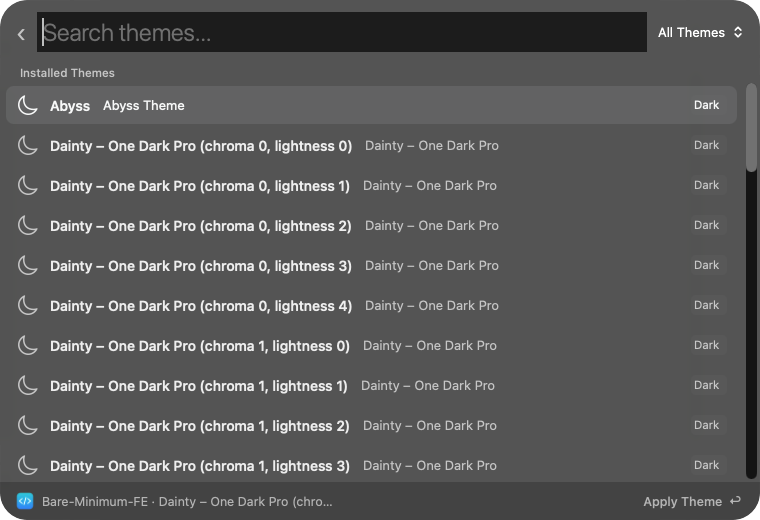
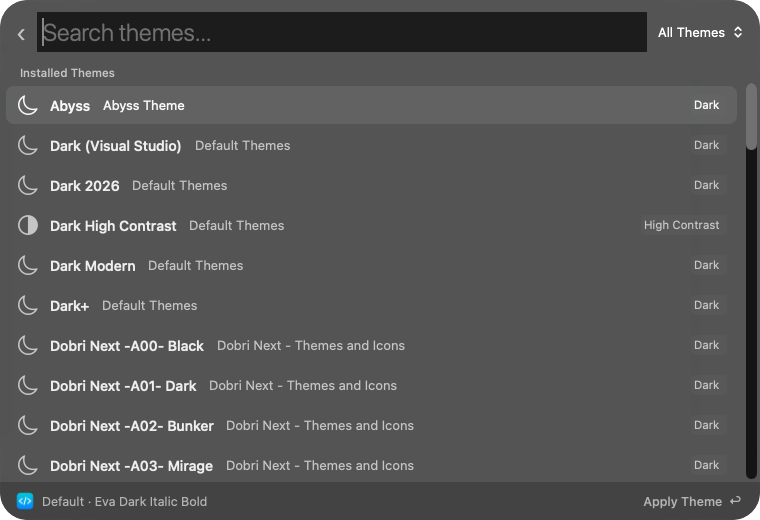
docs: re-shoot screenshots with demo data (adds ⌘K menu and ⌘Y preview)
- state_db hidden setting points the recents at another database (tests, demos)
- Markdown inside HTML blocks (badges next to images) now renders in previews

diff --git a/src/projects.ts b/src/projects.ts
@@ -3,7 +3,7 @@ import { homedir } from "node:os";
 import { basename, dirname, join } from "node:path";
 import { fileURLToPath, pathToFileURL } from "node:url";
 import { type Editor, editor, product } from "./editors.ts";
-import { tildify } from "./env.ts";
+import { str, tildify } from "./env.ts";
 import { run } from "./proc.ts";
 
 export type Kind = "folder" | "file" | "workspace" | "remote";
@@ -94,7 +94,10 @@ export const toProject = (entry: Entry): Project | undefined => {
 };
 
 /** Newer builds keep state in `~/.<shared>/sharedStorage`; older ones in the app's globalStorage. */
+/** `state_db` (hidden setting) points at another state.vscdb: for tests and demo screenshots. */
 const stateDb = (e: Editor): string => {
+  const override = str("state_db");
+  if (override) return override;
   const shared = product(e).sharedDataFolderName;
   const sharedDb = shared && join(homedir(), shared, "sharedStorage", "state.vscdb");
   return sharedDb && existsSync(sharedDb)

diff --git a/src/markdown.ts b/src/markdown.ts
@@ -32,7 +32,8 @@ export const markdownToHtml = (md: string): string => {
     const line = lines[i]!;
     if (rawHtml) {
       if (line.trim()) {
-        out.push(line);
+        // Markdown mixed into an HTML block (badges next to <img>) still gets inline formatting.
+        out.push(/^\s*</.test(line) ? line : inline(line));
         continue;
       }
       rawHtml = false;

diff --git a/README.md b/README.md
@@ -7,11 +7,13 @@ Built on Alfred UI, Alfred 6's native window toolkit.
 | | |
 | --- | --- |
 | ![The code menu](docs/screenshots/01-menu.png) | ![Search Recent Projects](docs/screenshots/02-recent-projects.png) |
-| **`code`**: every command in one menu | **Recent Projects**: Finder icons, git branch, pins |
-| ![Change Theme](docs/screenshots/04-change-theme.png) | ![Installed Extensions](docs/screenshots/05-installed-extensions.png) |
-| **Change Theme**: per profile, live preview in VS Code | **Installed Extensions**: per profile, filter themes |
-| ![Install Extension](docs/screenshots/06-install-extension.png) | ![Clone with folder suggestions](docs/screenshots/08-clone.png) |
-| **Install Extension**: most installed first, categories | **`codec`**: pick a folder, paste a git URL |
+| **`code`**: every command in one menu | **Recent Projects**: Finder icons, git branch, ● uncommitted changes |
+| ![Project actions](docs/screenshots/03-project-actions.png) | ![Change Theme](docs/screenshots/04-change-theme.png) |
+| **⌘K**: every action for a project | **Change Theme**: live preview in VS Code |
+| ![Installed Extensions](docs/screenshots/05-installed-extensions.png) | ![Install Extension](docs/screenshots/06-install-extension.png) |
+| **Installed Extensions**: per profile, filter themes | **Install Extension**: most installed first, categories |
+| ![Extension preview](docs/screenshots/07-extension-preview.png) | ![Clone with folder suggestions](docs/screenshots/08-clone.png) |
+| **⌘Y**: README and screenshots, ↩ installs | **`codec`**: pick a folder, paste a git URL |
 
 ## Features
 
